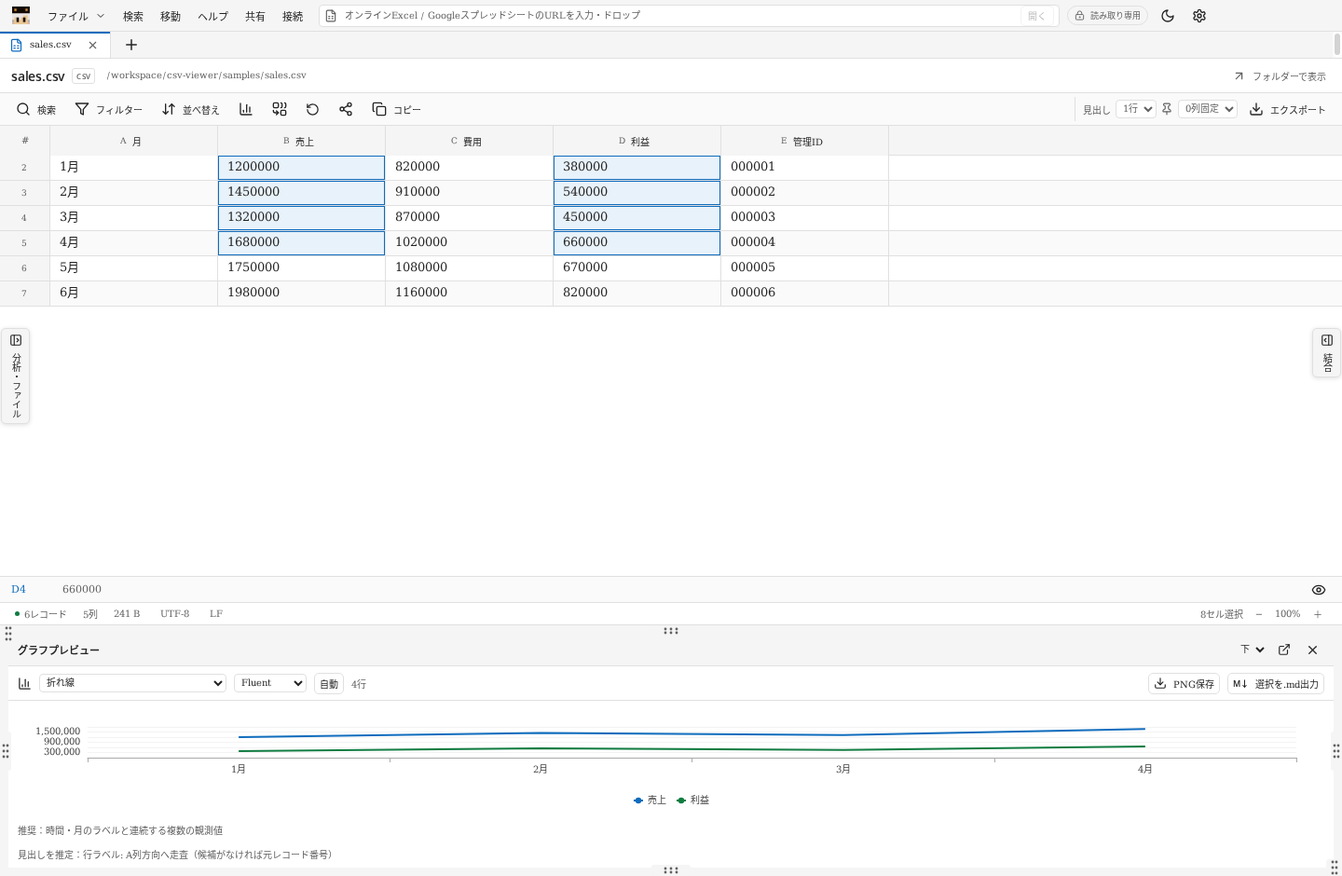
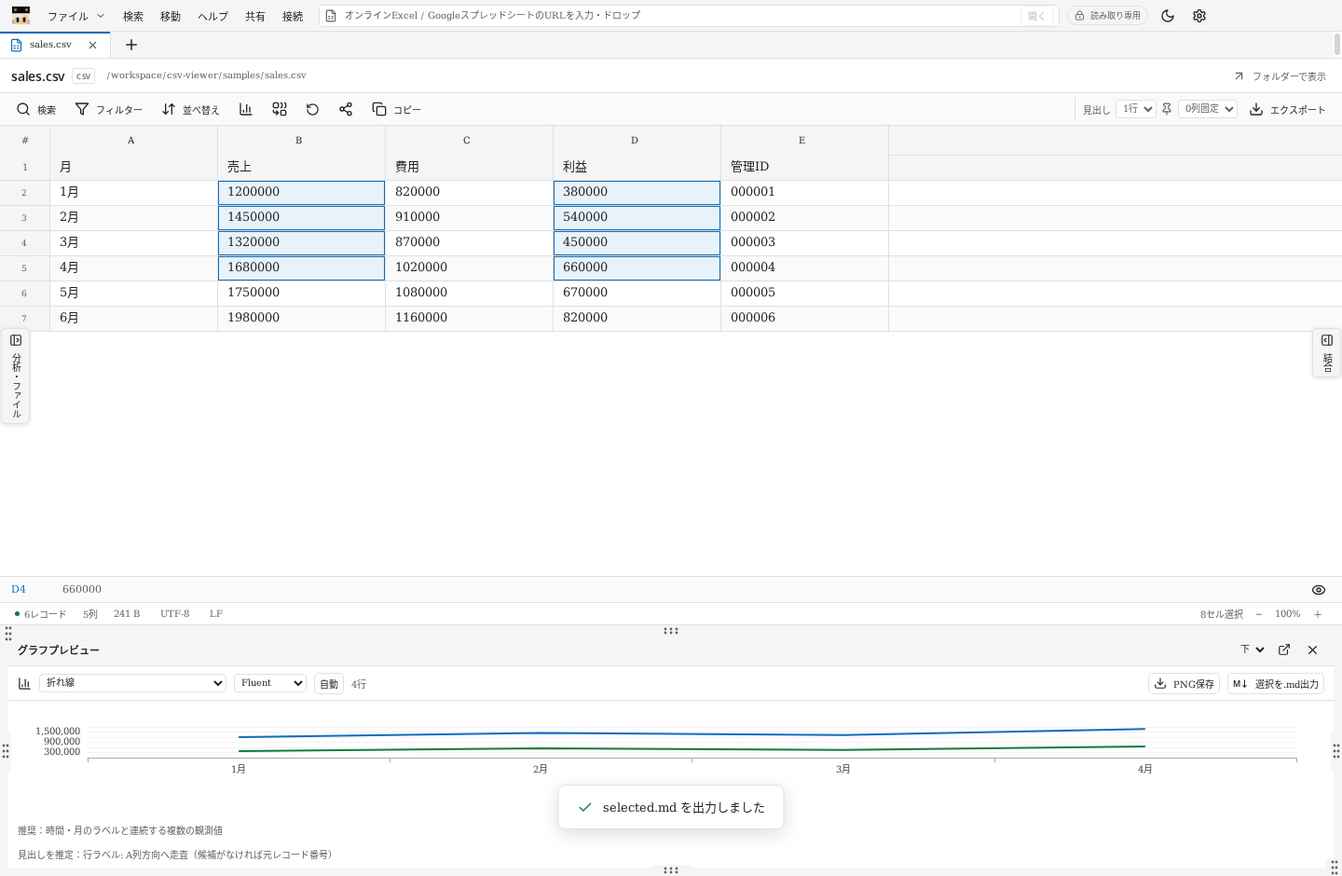
Separate alphabet column headers from raw file heading rows (v1.1.6)

diff --git a/src/main.tsx b/src/main.tsx
@@ -51,6 +51,7 @@ function App() {
   const [sidebar, setSidebar] = useState(false), [fileMenu, setFileMenu] = useState(false), [modal, setModal] = useState('');
   const [rows, setRows] = useState<Row[]>([]), [top, setTop] = useState(0), [left, setLeft] = useState(0), [height, setHeight] = useState(500), [gridWidth, setGridWidth] = useState(900);
   const [cellValue, setCellValue] = useState(''), [showFind, setShowFind] = useState(false), [query, setQuery] = useState(''), [caseSensitive, setCaseSensitive] = useState(false), [regex, setRegex] = useState(false), [whole, setWhole] = useState(false);
+  const [headerCellValue, setHeaderCellValue] = useState('');
   const [draftFilters, setDraftFilters] = useState<Filter[]>([]), [draftSorts, setDraftSorts] = useState<Sort[]>([]);
   const [encoding, setEncoding] = useState('auto'), [delimiter, setDelimiter] = useState('auto'), [customDelimiter, setCustomDelimiter] = useState(''), [kind, setKind] = useState('auto');
   const [exportFormat, setExportFormat] = useState('csv'), [exportScope, setExportScope] = useState('view'), [exportEncoding, setExportEncoding] = useState('utf8'), [exportBom, setExportBom] = useState(false), [markdownTable, setMarkdownTable] = useState(true);
@@ -59,7 +60,11 @@ function App() {
   const dragPoint=useRef({x:0,y:0});
   const gridRef = useRef<HTMLDivElement>(null), findRef = useRef<HTMLInputElement>(null), dragging = useRef(false), pageSequence = useRef(0), commands = useRef<(command: string) => void>(() => {});
   const selectedTab = tabs.find(t => t.meta.id === activeId), tabRef = useRef<Tab | undefined>(selectedTab); tabRef.current = selectedTab;
-  const meta = selectedTab?.meta, isCsv = meta?.kind === 'csv'||meta?.kind==='excel', rowHeight = Math.max(26, (prefs.fontSize || 13) + 14), headerHeight = isCsv ? 32 : 0;
+  const meta = selectedTab?.meta, isCsv = meta?.kind === 'csv'||meta?.kind==='excel', rowHeight = Math.max(26, (prefs.fontSize || 13) + 14);
+  // Keep raw heading records separate from the alphabet strip. A long heading
+  // section scrolls independently so it cannot consume the whole data viewport.
+  const headerRecordHeight = isCsv ? Math.min((meta?.headerRows || 0) * rowHeight, Math.max(rowHeight, Math.floor((height - 32) / 2 / rowHeight) * rowHeight)) : 0;
+  const headerHeight = isCsv ? 32 + headerRecordHeight : 0;
   const columns = useMemo(() => meta ? (selectedTab?.columnOrder?.length?selectedTab.columnOrder:Array.from({ length: meta.columns }, (_, c) => c)).filter(c=>!selectedTab?.deletedColumns?.includes(c)&&(!selectedTab?.columnFilter||selectedTab.columnFilter.includes(c))) : [], [meta?.columns, selectedTab?.deletedColumns,selectedTab?.columnOrder,selectedTab?.columnFilter]);
   const widthOf = (c: number) => selectedTab?.widths[c] || (isCsv ? 180 : 1400);
   const positions = useMemo(() => { let x = 54; return columns.map(c => { const p = { c, x, w: widthOf(c) }; x += p.w; return p; }); }, [columns, selectedTab?.widths, isCsv]);
@@ -305,11 +310,19 @@ function App() {
         {showFind && <div className="findbar"><Search size={16}/><input ref={findRef} aria-label="検索語" placeholder="文字列を検索…" value={query} onChange={e => setQuery(e.target.value)} onKeyDown={e => { if (e.key === 'Enter') find(e.shiftKey); if (e.key === 'Escape') setShowFind(false); }}/><label><input type="checkbox" checked={caseSensitive} onChange={e => setCaseSensitive(e.target.checked)}/>大文字・小文字</label><label><input type="checkbox" checked={whole} onChange={e => setWhole(e.target.checked)}/>セル全体</label><label><input type="checkbox" checked={regex} onChange={e => setRegex(e.target.checked)}/>正規表現</label><button aria-label="前を検索" onClick={() => find(true)}><ChevronLeft size={16}/></button><button aria-label="次を検索" onClick={() => find()}><ChevronRight size={16}/></button><button aria-label="検索を閉じる" onClick={() => setShowFind(false)}><X size={16}/></button></div>}
         {selectedTab!.filters.length > 0 && <div className="filter-summary"><FilterIcon size={12}/>{count(meta.count)}件を表示（全{count(meta.records - meta.headerRows)}件）<button onClick={() => configure({ filters: [] })}>フィルターを解除<X size={12}/></button></div>}
         {meta.warnings.length > 0 && <div className="warning"><Info size={14}/>{meta.warnings.join(' ')}</div>}
-        {selectedTab!.preview ? <div className="markdown-scroll"><article className="markdown-body" onPointerDown={e=>{dragging.current=true;selectMarkdown(e,e.shiftKey);}} onPointerOver={e=>{if(dragging.current)selectMarkdown(e,true);}} dangerouslySetInnerHTML={{ __html: mdHtml }}/></div> : <div className={'grid-scroll ' + (!isCsv ? 'text-view' : '')} ref={gridRef} tabIndex={0} role="grid" aria-label={isCsv ? 'CSVデータ' : 'テキストソース'} aria-rowcount={meta.count} aria-colcount={meta.columns} onKeyDown={gridKey} onScroll={e => { const el = e.currentTarget; setTop(el.scrollTop*scrollScale); setLeft(el.scrollLeft); patchTab({ scrollTop: el.scrollTop, scrollLeft: el.scrollLeft }); }}>
+        {selectedTab!.preview ? <div className="markdown-scroll"><article className="markdown-body" onPointerDown={e=>{dragging.current=true;selectMarkdown(e,e.shiftKey);}} onPointerOver={e=>{if(dragging.current)selectMarkdown(e,true);}} dangerouslySetInnerHTML={{ __html: mdHtml }}/></div> : <div className={'grid-scroll ' + (!isCsv ? 'text-view' : '')} ref={gridRef} tabIndex={0} role="grid" aria-label={isCsv ? 'CSVデータ' : 'テキストソース'} aria-rowcount={meta.count + (isCsv ? meta.headerRows + 1 : 0)} aria-colcount={meta.columns} onKeyDown={gridKey} onScroll={e => { const el = e.currentTarget; setTop(el.scrollTop*scrollScale); setLeft(el.scrollLeft); patchTab({ scrollTop: el.scrollTop, scrollLeft: el.scrollLeft }); }}>
           <div className="grid-canvas" style={{ width: Math.max(totalWidth, gridWidth), height: Math.max(height, Math.min(24000000,meta.count * rowHeight + headerHeight)) }}>
-            {isCsv && <div className="grid-headers" style={{ width: Math.max(totalWidth, gridWidth), transform: `translateY(${top/scrollScale}px)` }}><div className="corner" style={{ transform: `translateX(${left}px)` }}>#</div>{visibleColumns.map(p => <div className={'column-header ' + (frozenColumns.includes(p.c) ? 'frozen' : '')} key={p.c} style={{ left: frozenColumns.includes(p.c) ? left + positions.slice(0,positions.indexOf(p)).filter(v=>frozenColumns.includes(v.c)).reduce((sum,v) => sum+v.w,54) : p.x, width: p.w }} title={meta.headers[p.c]}><GridHead axis="column" index={p.c} label={meta.headers[p.c]} letter={letter(p.c)} hidden={selectedTab!.hidden.includes(p.c)} selected={headSelection?.axis==='column'&&headSelection.indices.includes(p.c)||false} onStart={e=>beginHead('column',p.c,e)} onEnter={()=>{if(headDrag.current?.axis==='column')extendHead(p.c);}} onMenu={e=>headContext('column',p.c,e)} onVisibility={()=>visibility('column',[p.c])} onSort={direction=>sortHead('column',p.c,direction)}/><div className="resize-handle" onPointerDown={e => resizeColumn(p.c, e)} onDoubleClick={() => autoFit(p.c)}/></div>)}</div>}
-            {rows.map(row => <div role="row" key={row.index} className={'grid-row ' + (row.index % 2 ? 'alternate' : '')} style={{ top: row.index * rowHeight - top + top/scrollScale + headerHeight, height: rowHeight, width: Math.max(totalWidth, gridWidth) }}><div className="row-number" style={{left}}><GridHead axis="row" index={row.index} label={String(row.source+1)} hidden={selectedTab!.hiddenRows?.includes(row.source)||false} selected={headSelection?.axis==='row'&&headSelection.indices.includes(row.index)||false} onStart={e=>beginHead('row',row.index,e)} onEnter={()=>{if(headDrag.current?.axis==='row')extendHead(row.index);}} onMenu={e=>headContext('row',row.index,e)} onVisibility={()=>visibility('row',[row.index])} onSort={direction=>sortHead('row',row.index,direction)}/></div>{visibleColumns.map(p => <div key={p.c} role="gridcell" aria-selected={!!isSelected(row.index,p.c)} className={'cell ' + (selectedTab!.hidden.includes(p.c)||selectedTab!.hiddenRows?.includes(row.source)?'cell-concealed ':'') + (isSelected(row.index,p.c) ? 'selected ' : '') + (frozenColumns.includes(p.c) ? 'frozen ' : '') + (row.cells[p.c] === undefined ? 'missing' : '')} data-row={row.index} data-col={p.c} style={{ left: frozenColumns.includes(p.c) ? left + positions.slice(0,positions.indexOf(p)).filter(v=>frozenColumns.includes(v.c)).reduce((sum,v) => sum+v.w,54) : p.x, width: p.w }} onPointerDown={e => { if (e.button !== 0) return; e.preventDefault(); gridRef.current?.focus(); dragging.current = true; dragPoint.current={x:e.clientX,y:e.clientY}; select(row.index,p.c,e.shiftKey,e.ctrlKey||e.metaKey); }} onPointerEnter={() => { if (dragging.current) select(row.index,p.c,true); }} onDoubleClick={() => showModal('cell')} title={selectedTab!.hidden.includes(p.c)||selectedTab!.hiddenRows?.includes(row.source)?'非表示（グレー表示）: '+(row.cells[p.c]??''):row.cells[p.c]}><span>{row.cells[p.c]?.replace(/\r?\n/g,' ↵ ') || ''}</span></div>)}</div>)}
-            {!meta.count && <div className="no-rows">{meta.records ? '表示条件に一致するデータはありません' : '空のファイルです'}</div>}
+            {isCsv && <div className="grid-headers" role="row" aria-rowindex={1} style={{ width: Math.max(totalWidth, gridWidth), transform: `translateY(${top/scrollScale}px)` }}><div className="corner" style={{ transform: `translateX(${left}px)` }}>#</div>{visibleColumns.map(p => <div className={'column-header ' + (frozenColumns.includes(p.c) ? 'frozen' : '')} key={p.c} style={{ left: frozenColumns.includes(p.c) ? left + positions.slice(0,positions.indexOf(p)).filter(v=>frozenColumns.includes(v.c)).reduce((sum,v) => sum+v.w,54) : p.x, width: p.w }} title={meta.headers[p.c]}><GridHead axis="column" index={p.c} label={meta.headers[p.c]} letter={letter(p.c)} hidden={selectedTab!.hidden.includes(p.c)} selected={headSelection?.axis==='column'&&headSelection.indices.includes(p.c)||false} onStart={e=>beginHead('column',p.c,e)} onEnter={()=>{if(headDrag.current?.axis==='column')extendHead(p.c);}} onMenu={e=>headContext('column',p.c,e)} onVisibility={()=>visibility('column',[p.c])} onSort={direction=>sortHead('column',p.c,direction)}/><div className="resize-handle" onPointerDown={e => resizeColumn(p.c, e)} onDoubleClick={() => autoFit(p.c)}/></div>)}</div>}
+            {isCsv && meta.headerRows > 0 && <div className="header-records" aria-label="ファイルの見出し行" style={{top:32 + top/scrollScale,left,width:gridWidth,height:headerRecordHeight}}>
+              <div className="header-record-canvas" style={{width:Math.max(totalWidth,gridWidth),height:meta.headerRows*rowHeight,transform:`translateX(${-left}px)`}}>
+                {meta.headerRecords.map((cells,r)=><div role="row" aria-rowindex={r+2} key={r} className="grid-row header-record" data-header-row={r} style={{top:r*rowHeight,height:rowHeight,width:Math.max(totalWidth,gridWidth)}}>
+                  <div className="row-number header-record-number" role="rowheader" style={{left}}>{r+1}</div>
+                  {visibleColumns.map(p=><div key={p.c} role="gridcell" className={'cell '+(selectedTab!.hidden.includes(p.c)?'cell-concealed ':'')+(frozenColumns.includes(p.c)?'frozen ':'')+(cells[p.c]===undefined?'missing':'')} data-header-col={p.c} style={{left:frozenColumns.includes(p.c)?left+positions.slice(0,positions.indexOf(p)).filter(v=>frozenColumns.includes(v.c)).reduce((sum,v)=>sum+v.w,54):p.x,width:p.w}} title={cells[p.c]??''} onDoubleClick={()=>{setHeaderCellValue(cells[p.c]??'');setModal('headerCell');}}><span>{cells[p.c]?.replace(/\r?\n/g,' ↵ ')||''}</span></div>)}
+                </div>)}
+              </div>
+            </div>}
+            {rows.map(row => <div role="row" aria-rowindex={row.index+(isCsv?meta.headerRows+2:1)} key={row.index} className={'grid-row ' + (row.index % 2 ? 'alternate' : '')} style={{ top: row.index * rowHeight - top + top/scrollScale + headerHeight, height: rowHeight, width: Math.max(totalWidth, gridWidth) }}><div className="row-number" style={{left}}><GridHead axis="row" index={row.index} label={String(row.source+1)} hidden={selectedTab!.hiddenRows?.includes(row.source)||false} selected={headSelection?.axis==='row'&&headSelection.indices.includes(row.index)||false} onStart={e=>beginHead('row',row.index,e)} onEnter={()=>{if(headDrag.current?.axis==='row')extendHead(row.index);}} onMenu={e=>headContext('row',row.index,e)} onVisibility={()=>visibility('row',[row.index])} onSort={direction=>sortHead('row',row.index,direction)}/></div>{visibleColumns.map(p => <div key={p.c} role="gridcell" aria-selected={!!isSelected(row.index,p.c)} className={'cell ' + (selectedTab!.hidden.includes(p.c)||selectedTab!.hiddenRows?.includes(row.source)?'cell-concealed ':'') + (isSelected(row.index,p.c) ? 'selected ' : '') + (frozenColumns.includes(p.c) ? 'frozen ' : '') + (row.cells[p.c] === undefined ? 'missing' : '')} data-row={row.index} data-col={p.c} style={{ left: frozenColumns.includes(p.c) ? left + positions.slice(0,positions.indexOf(p)).filter(v=>frozenColumns.includes(v.c)).reduce((sum,v) => sum+v.w,54) : p.x, width: p.w }} onPointerDown={e => { if (e.button !== 0) return; e.preventDefault(); gridRef.current?.focus(); dragging.current = true; dragPoint.current={x:e.clientX,y:e.clientY}; select(row.index,p.c,e.shiftKey,e.ctrlKey||e.metaKey); }} onPointerEnter={() => { if (dragging.current) select(row.index,p.c,true); }} onDoubleClick={() => showModal('cell')} title={selectedTab!.hidden.includes(p.c)||selectedTab!.hiddenRows?.includes(row.source)?'非表示（グレー表示）: '+(row.cells[p.c]??''):row.cells[p.c]}><span>{row.cells[p.c]?.replace(/\r?\n/g,' ↵ ') || ''}</span></div>)}</div>)}
+            {!meta.count && <div className="no-rows" style={{top:headerHeight+24}}>{meta.records ? '表示条件に一致するデータはありません' : '空のファイルです'}</div>}
           </div>
         </div>}
         <div className="inspector"><span className="cell-address">{selectedTab?.selection ? `${letter(selectedTab.selection.col1)}${selectedTab.selection.row1 + 1}` : '—'}</span><pre title="選択セルの内容（型変換なし）">{cellValue || ' '}</pre><button title="セルの全文を表示" aria-label="セルの全文を表示" className="icon-btn" onClick={() => showModal('cell')}><Eye size={16}/></button></div>
@@ -323,7 +336,7 @@ function App() {
     {error && <div className="error-banner" role="alert"><Info size={18}/><span>{error}</span><button className="icon-btn" aria-label="エラーを閉じる" onClick={() => setError('')}><X size={16}/></button></div>}
     {toast && <div className="toast"><Check size={17}/>{toast}</div>}
     {busy && <div className="busy-overlay"><div className="busy-card"><div className="spinner"/><strong>{busy}</strong><progress value={progress} max={1}/><p>{Math.round(progress*100)}%</p></div></div>}
-    {modal && <div className="modal-overlay" onClick={() => { if (!busy) setModal(''); }}><section className={'modal ' + (['filters','sorts','help'].includes(modal) ? 'wide' : '')} role="dialog" aria-modal="true" onClick={e => e.stopPropagation()}>{modal !== 'share' && <div className="modal-heading"><h2>{{ filters:'フィルター',sorts:'並べ替え',reading:'読み込み設定',export:'エクスポート',settings:'表示設定',goto:'行・列へ移動',help:'操作ガイド',cell:'セルの内容',about:'このアプリについて' }[modal]}</h2><button className="icon-btn" aria-label="ダイアログを閉じる" onClick={() => setModal('')}><X size={18}/></button></div>}
+    {modal && <div className="modal-overlay" onClick={() => { if (!busy) setModal(''); }}><section className={'modal ' + (['filters','sorts','help'].includes(modal) ? 'wide' : '')} role="dialog" aria-modal="true" onClick={e => e.stopPropagation()}>{modal !== 'share' && <div className="modal-heading"><h2>{{ filters:'フィルター',sorts:'並べ替え',reading:'読み込み設定',export:'エクスポート',settings:'表示設定',goto:'行・列へ移動',help:'操作ガイド',cell:'セルの内容',headerCell:'セルの内容',about:'このアプリについて' }[modal]}</h2><button className="icon-btn" aria-label="ダイアログを閉じる" onClick={() => setModal('')}><X size={18}/></button></div>}
       {modal === 'share' && <Sharing table={shareTable} document={sharingDocument} onClose={()=>setModal('')}/>}
       {modal === 'filters' && <><p className="modal-description">すべての条件に一致するレコードを表示します。元データは変更されません。</p><div className="rules">{draftFilters.map((f,i) => <div className="filter-rule" key={i}>{columnSelect(f.column,n => setDraftFilters(all => all.map((v,j) => j === i ? {...v,column:n}:v)),true)}<select value={f.mode} onChange={e => setDraftFilters(all => all.map((v,j) => j === i ? {...v,mode:e.target.value}:v))}>{MODES.map(([value,label]) => <option key={value} value={value}>{label}</option>)}</select><input aria-label={`条件${i+1}の値`} placeholder="比較する値" value={f.value} disabled={['empty','notEmpty'].includes(f.mode)} onChange={e => setDraftFilters(all => all.map((v,j) => j === i ? {...v,value:e.target.value}:v))}/><label title="大文字・小文字を区別"><input type="checkbox" checked={!!f.caseSensitive} onChange={e => setDraftFilters(all => all.map((v,j) => j === i ? {...v,caseSensitive:e.target.checked}:v))}/>Aa</label><button aria-label={`条件${i+1}を削除`} className="icon-btn" onClick={() => setDraftFilters(all => all.filter((_,j) => j !== i))}><X size={16}/></button></div>)}</div><button className="quiet-button" disabled={draftFilters.length >= 30} onClick={() => setDraftFilters(all => [...all,{column:-1,mode:'contains',value:''}])}><Plus size={15}/>条件を追加</button><div className="modal-actions"><button onClick={() => configure({filters:[]})}>解除</button><button className="primary" onClick={() => configure({filters:draftFilters})}>適用</button></div></>}
       {modal === 'sorts' && <><p className="modal-description">上の条件から順に並べ替えます。同じ値の順序は保持されます。</p><div className="rules">{draftSorts.map((s,i) => <div className="sort-rule" key={i}><span>{i+1}</span>{columnSelect(s.column,n => setDraftSorts(all => all.map((v,j) => j === i ? {...v,column:n}:v)))}<select value={s.direction} onChange={e => setDraftSorts(all => all.map((v,j) => j === i ? {...v,direction:e.target.value}:v))}><option value="asc">昇順 ↑</option><option value="desc">降順 ↓</option></select><select value={s.mode} onChange={e => setDraftSorts(all => all.map((v,j) => j === i ? {...v,mode:e.target.value}:v))}><option value="text">自然順（文字列）</option><option value="numeric">数値順（精度保持）</option></select><button className="icon-btn" onClick={() => setDraftSorts(all => all.filter((_,j) => j !== i))}><X size={16}/></button></div>)}</div><button className="quiet-button" disabled={draftSorts.length >= 8} onClick={() => setDraftSorts(all => [...all,{column:0,direction:'asc',mode:'text'}])}><Plus size={15}/>並べ替え列を追加</button><div className="modal-actions"><button onClick={() => configure({sorts:[]})}>元の順序に戻す</button><button className="primary" onClick={() => configure({sorts:draftSorts})}>適用</button></div></>}
@@ -331,7 +344,7 @@ function App() {
       {modal === 'export' && <><p className="modal-description">別のファイルに変換して出力します。保存先は次の画面で選択します。</p><label className="form-field">出力形式<select aria-label="出力形式" value={exportFormat} onChange={e => setExportFormat(e.target.value)}><option value="csv">CSV（カンマ区切り）</option><option value="tsv">TSV（タブ区切り）</option><option value="md">Markdown (.md)</option><option value="txt">テキスト (.txt)</option></select></label>{isCsv && <label className="form-field">出力範囲<select value={exportScope} onChange={e => setExportScope(e.target.value)}><option value="selection">選択範囲（見出しを含む）</option><option value="view">表示中のレコード（フィルター・並べ替えを適用）</option><option value="all">元ファイルの全レコード</option></select></label>}{meta?.kind === 'markdown' && ['csv','tsv'].includes(exportFormat) && <label className="form-field">表としての変換<select value={markdownTable?'table':'lines'} onChange={e => setMarkdownTable(e.target.value === 'table')}><option value="table">最初のMarkdown表を出力</option><option value="lines">ソースの各行を1セルとして出力</option></select></label>}<label className="form-field">出力文字コード<select value={exportEncoding} onChange={e => setExportEncoding(e.target.value)}><option value="utf8">UTF-8</option><option value="source">元ファイルと同じ文字コード</option></select></label><label className="check-field"><input type="checkbox" checked={exportBom} onChange={e => setExportBom(e.target.checked)}/>BOMを付ける</label><div className="export-note">{isCsv ? 'CSV・TSV・TXTは引用符付きの区切りテキスト、Markdownは表として出力します。非表示列も出力されます。Markdownの先頭レコードは見出しになります。' : ['md','txt'].includes(exportFormat) ? 'Markdown・TXTへの出力はソースの内容を保持します。' : meta?.kind === 'markdown' && markdownTable ? '最初の表だけを変換します。表以外の文章と後続の表は含まれません。' : '各ソース行を1列のデータとして出力します。'}<br/>変換時は改行・引用符・文字コードの表現が変わる場合があります。</div><div className="modal-actions"><button onClick={() => setModal('')}>キャンセル</button><button className="primary" onClick={exportFile}><Download size={15}/>保存先を選んで出力</button></div></>}
       {modal === 'settings' && <>{appIcon&&<img className="settings-app-icon" src={appIcon} alt="アプリアイコン"/>}<button className="quiet-button" onClick={()=>window.csv.chooseIcon().then(image=>{if(image)setAppIcon(image);}).catch(e=>setError(String(e)))}>アプリアイコンを選択（PNG / ICO）</button><button className="quiet-button" onClick={()=>{setShareTable(null);setSharingDocument(undefined);setModal('share');}}>アカウント・共有の接続設定を開く</button><p className="modal-description">Microsoft 365 / Fluentの配色を参考にしています。</p><label className="form-field">カラープロファイル<select value={prefs.theme} onChange={e => savePrefs({theme:e.target.value})}><option value="light">ライト</option><option value="dark">ダーク</option></select></label><label className="form-field">アクセントカラー<select value={prefs.accent} onChange={e => savePrefs({accent:e.target.value})}><option value="#0f6cbd">Office ブルー</option><option value="#107c41">Excel グリーン</option><option value="#5b5fc7">Teams パープル</option></select></label><label className="form-field">フォント<select value={prefs.fontFamily} onChange={e => savePrefs({fontFamily:e.target.value})}><option value="Segoe UI">Segoe UI</option><option value="Yu Gothic UI">游ゴシック UI</option><option value="Meiryo">メイリオ</option><option value="Consolas">Consolas</option></select></label><label className="form-field">文字サイズ<input type="number" min={10} max={24} value={prefs.fontSize} onChange={e => savePrefs({fontSize:Math.max(10,Math.min(24,Number(e.target.value)||13))})}/></label><div className="modal-actions"><button className="primary" onClick={() => setModal('')}>完了</button></div></>}
       {modal === 'goto' && <><p className="modal-description">現在表示されている順序の行と列へ移動します。</p><label className="form-field">行番号 (1〜{count(meta?.count||0)})<input autoFocus type="number" min={1} max={meta?.count} value={gotoRow} onChange={e => setGotoRow(e.target.value)}/></label><label className="form-field">列番号 (1〜{meta?.columns||0})<input type="number" min={1} max={meta?.columns} value={gotoCol} onChange={e => setGotoCol(e.target.value)}/></label><div className="modal-actions"><button className="primary" onClick={() => { revealCell((Number(gotoRow)||1)-1,(Number(gotoCol)||1)-1); setModal(''); }}>移動</button></div></>}
-      {modal === 'cell' && <><p className="modal-description">表示上の省略がない元のセル内容です。</p><textarea className="cell-full" readOnly value={cellValue}/><div className="modal-actions"><button onClick={() => window.csv.clipboard(cellValue).then(() => notify('セルをコピーしました'))}><Copy size={15}/>コピー</button><button className="primary" onClick={() => setModal('')}>閉じる</button></div></>}
+      {['cell','headerCell'].includes(modal) && <><p className="modal-description">表示上の省略がない元のセル内容です。</p><textarea className="cell-full" readOnly value={modal==='headerCell'?headerCellValue:cellValue}/><div className="modal-actions"><button onClick={() => window.csv.clipboard(modal==='headerCell'?headerCellValue:cellValue).then(() => notify('セルをコピーしました'))}><Copy size={15}/>コピー</button><button className="primary" onClick={() => setModal('')}>閉じる</button></div></>}
       {modal === 'about' && <About icon={appIcon} onError={setError}/> }
       {modal === 'help' && <div className="help-content"><p>CSV nyaan ViewerはCSV・Markdown・TXTを直接読み込むWindows用ビューワーです。元ファイルを保存・更新する操作はありません。</p><table><tbody>{[['Ctrl+O','ファイルを開く（複数選択可）'],['Ctrl+F / F3 / Shift+F3','検索 / 次を検索 / 前を検索'],['Ctrl+G','行・列へ移動'],['Ctrl+C / Ctrl+A','選択範囲をコピー / 全選択'],['Shift+クリック・矢印','選択範囲を広げる'],['Ctrl+矢印 / Ctrl+Shift+矢印','連続データの端へ移動 / 範囲拡張'],['Ctrl+Space / Shift+Space','列選択 / 行選択'],['Home / End / Ctrl+Home / Ctrl+End','行端 / 表の先頭・末尾へ移動'],['Ctrl+R / Ctrl+W','再読み込み / タブを閉じる'],['Ctrl+Shift+E','ファイル → エクスポート'],['Ctrl+Shift+L','ライト／ダーク切り替え']].map(([key,value]) => <tr key={key}><td><kbd>{key}</kbd></td><td>{value}</td></tr>)}</tbody></table><p>見出し中央で行・列を選択し、ドラッグで複数選択します。見出しの左側で表示を切り替え、右側で昇順・降順・元の順序を選べます。右クリックで操作メニューを開けます。境界をドラッグすると幅を変更できます。境界のダブルクリックで、画面上の内容に幅を合わせます。セルのダブルクリックで全文を表示します。</p><p>文字化けや区切りの誤判定は「ファイル → 読み込み設定」で指定し直せます。自動文字コード判定はBOM・UTF-8・UTF-16を優先し、その他はCP932を候補とします。</p><p>大容量CSVはレコードの位置だけを保持して必要な部分を読みます。Markdownプレビューは16 MiB以内です。大きい文書はソース表示で閲覧できます。</p><button className="quiet-button" onClick={()=>showModal('about')}>このアプリについて</button><p className="help-footnote">Modern CSVとは独立した実装です。現行無料版の公式機能表は、この環境の通信制限により照合できていません。</p></div>}
     </section></div>}

diff --git a/tests/revision.spec.ts b/tests/revision.spec.ts
@@ -7,10 +7,31 @@ test.afterAll(async()=>{await app.close();expect(errors).toEqual([]);});
 test.beforeEach(async()=>{for(const name of ['グラフプレビューを閉じる','ファイル結合を閉じる'])if(await page.getByLabel(name,{exact:true}).count())await page.getByLabel(name,{exact:true}).click();await page.getByLabel('表示状態を復元',{exact:true}).click();await expect(page.locator('.busy-overlay')).toHaveCount(0);});
 const cell=(r:number,c:number)=>page.locator(`[data-row="${r}"][data-col="${c}"]`);
 async function drag(from:ReturnType<Page['locator']>,to:ReturnType<Page['locator']>){const a=(await from.boundingBox())!,b=(await to.boundingBox())!;await page.mouse.move(a.x+a.width/2,a.y+a.height/2);await page.mouse.down();await page.mouse.move(b.x+b.width/2,b.y+b.height/2,{steps:8});await page.mouse.up();}
+test('列記号だけの最上段と元の見出し行を分離し、固定・スクロール・見出し行数を保つ',async()=>{
+  const headings=Array.from({length:30},(_,c)=>['A','対象：','店長\n署名',''][c]??'項目'+c);headings[26]='0001';
+  const quote=(v:string)=>/[",\n]/.test(v)?'"'+v.replaceAll('"','""')+'"':v;
+  const target=path.join(out,'headings.csv'),source=[headings,...Array.from({length:80},(_,r)=>Array.from({length:30},(_,c)=>String((r+1)*100+c)))].map(row=>row.map(quote).join(',')).join('\n')+'\n';fs.writeFileSync(target,source);
+  await app.evaluate(({BrowserWindow},p)=>BrowserWindow.getAllWindows()[0].webContents.send('csv:paths',[p]),target);
+  await expect(cell(0,1)).toHaveText('101');
+  const raw=(r:number,c:number)=>page.locator(`[data-header-row="${r}"] [data-header-col="${c}"]`);
+  await expect(page.getByLabel('列Aを選択',{exact:true})).toHaveText('A');await expect(page.getByLabel('列Bを選択',{exact:true})).toHaveText('B');
+  await expect(raw(0,0)).toHaveText('A');await expect(raw(0,1)).toHaveText('対象：');await expect(raw(0,2)).toHaveText('店長 ↵ 署名');await expect(raw(0,3)).toHaveText('');
+  await expect(page.locator('[data-header-row="0"] .row-number')).toHaveText('1');expect(await page.locator('.header-records').evaluate(el=>el.scrollHeight===el.clientHeight)).toBe(true);await expect(page.getByLabel('行2を選択',{exact:true})).toBeVisible();
+  const strip=(await page.locator('.grid-headers').boundingBox())!,heading=(await raw(0,1).boundingBox())!,data=(await cell(0,1).boundingBox())!;expect(heading.y).toBeCloseTo(strip.y+strip.height,0);const headerRow=(await page.locator('[data-header-row="0"]').boundingBox())!;expect(data.y).toBeCloseTo(headerRow.y+headerRow.height,0);
+  await raw(0,2).dblclick();await expect(page.locator('.cell-full')).toHaveValue('店長\n署名');await page.getByRole('dialog').getByRole('button',{name:'コピー',exact:true}).click();expect(await app.evaluate(({clipboard})=>clipboard.readText())).toBe('店長\n署名');await page.getByLabel('ダイアログを閉じる').click();
+  await page.locator('.column-head[data-head-index="1"] .header-sort-zone').hover();await page.getByLabel('列Bを降順',{exact:true}).click();await expect(cell(0,1)).toHaveText('8001');await expect(raw(0,1)).toHaveText('対象：');await expect(page.getByLabel('列Bを選択',{exact:true})).toHaveText('B');
+  await page.getByLabel('表示状態を復元',{exact:true}).click();await expect(cell(0,1)).toHaveText('101');
+  await page.getByLabel('固定列数').selectOption('1');const pinned=(await raw(0,0).boundingBox())!;
+  await page.locator('.grid-scroll').evaluate(el=>el.scrollTo({left:4400,top:800}));await expect(page.getByLabel('列AAを選択',{exact:true})).toHaveText('AA');await expect(raw(0,26)).toHaveText('0001');expect((await raw(0,0).boundingBox())!.x).toBeCloseTo(pinned.x,0);expect((await raw(0,26).boundingBox())!.y).toBeCloseTo(heading.y,0);
+  await page.locator('.grid-scroll').evaluate(el=>el.scrollTo({left:0,top:0}));await page.getByLabel('見出し行数').selectOption('2');await expect(raw(1,1)).toHaveText('101');await expect(cell(0,1)).toHaveText('201');await expect(page.getByLabel('列Bを選択',{exact:true})).toHaveText('B');
+  await page.getByLabel('見出し行数').selectOption('30');await expect(page.locator('[data-header-row]')).toHaveCount(30);const grid=(await page.locator('.grid-scroll').boundingBox())!,records=(await page.locator('.header-records').boundingBox())!;expect(records.height).toBeLessThan(grid.height/2);await page.locator('.header-records').evaluate(el=>el.scrollTop=el.scrollHeight);await expect(raw(29,1)).toBeVisible();await expect(cell(0,1)).toHaveText('3001');
+  await page.getByLabel('見出し行数').selectOption('0');await expect(page.locator('.header-records')).toHaveCount(0);await expect(cell(0,1)).toHaveText('対象：');await expect(page.getByLabel('行1を選択',{exact:true})).toBeVisible();await expect(page.getByLabel('列Bを選択',{exact:true})).toHaveText('B');
+  expect(fs.readFileSync(target,'utf8')).toBe(source);await page.getByLabel('headings.csvを閉じる').click();await expect(cell(0,1)).toHaveText('1200000');const capture=(await page.locator('.grid-scroll').boundingBox())!;await page.screenshot({path:'docs/images/separate-grid-headings.png',clip:{x:capture.x,y:capture.y,width:Math.min(960,capture.width),height:Math.min(220,capture.height)}});
+});
 test('セルのCtrl/Shift/矢印と行列ショートカット',async()=>{await cell(0,1).click();await page.locator('.grid-scroll').press('Shift+ArrowDown');await page.locator('.grid-scroll').press('Shift+ArrowRight');await expect(cell(1,2)).toHaveAttribute('aria-selected','true');await expect(cell(0,1)).toHaveAttribute('aria-selected','true');await page.locator('.grid-scroll').press('Control+ArrowDown');await expect(page.locator('.inspector .cell-address')).toHaveText('C6');await page.locator('.grid-scroll').press('Control+Home');await expect(page.locator('.cell-address')).toHaveText('A1');await page.locator('.grid-scroll').press('Control+Space');await expect(cell(5,0)).toHaveAttribute('aria-selected','true');await page.locator('.grid-scroll').press('Shift+Space');await expect(cell(0,4)).toHaveAttribute('aria-selected','true');await cell(3,3).click({modifiers:['Control']});await expect(cell(0,0)).toHaveAttribute('aria-selected','true');await expect(cell(3,3)).toHaveAttribute('aria-selected','true');});
 test('列のホバー選択、左右のアイコン、ドラッグ複数列のメニュー、表示削除と復元',async()=>{const b=page.getByLabel('列Bを選択',{exact:true}),d=page.getByLabel('列Dを選択',{exact:true});await b.hover();await expect(b).toHaveCSS('background-color','rgb(232, 242, 251)');await b.click();await expect(cell(5,1)).toHaveAttribute('aria-selected','true');await page.locator('.column-head[data-head-index="1"] .header-eye-zone').hover();await page.getByLabel('列Bを非表示',{exact:true}).click();await expect(cell(0,1)).toHaveClass(/cell-concealed/);await expect(cell(0,1).locator('span')).toBeVisible();await expect(cell(0,1).locator('span')).toHaveText('1200000');await page.getByLabel('列Bを表示',{exact:true}).click();await expect(cell(0,1)).not.toHaveClass(/cell-concealed/);await page.locator('.column-head[data-head-index="1"] .header-sort-zone').hover();await page.getByLabel('列Bを降順',{exact:true}).click();await expect(cell(0,1)).toHaveText('1980000');await page.locator('.column-head[data-head-index="1"] .header-sort-zone').hover();await page.getByLabel('列Bを元の順序へ',{exact:true}).click();await expect(cell(0,1)).toHaveText('1200000');await drag(b,d);const menu=page.getByRole('menu',{name:'行列の操作'});await expect(menu).toBeVisible();await expect(menu.getByRole('menuitem')).toHaveCount(2);await expect(cell(4,2)).toHaveAttribute('aria-selected','true');await menu.getByRole('menuitem',{name:'削除',exact:true}).click();await expect(cell(0,1)).toHaveCount(0);await page.getByLabel('表示状態を復元').click();await expect(cell(0,1)).toHaveText('1200000');await b.click({button:'right'});await expect(menu.getByRole('menuitem')).toHaveCount(3);await page.locator('.head-menu-shield').click({position:{x:900,y:700}});});
 test('行も複数ドラッグ・グレーアウト・削除・横方向ソート',async()=>{const r0=page.locator('.row-head[data-head-index="0"] .header-center'),r2=page.locator('.row-head[data-head-index="2"] .header-center');await drag(r0,r2);const menu=page.getByRole('menu',{name:'行列の操作'});await expect(menu.getByRole('menuitem')).toHaveCount(2);await menu.getByRole('menuitem',{name:'表示 / 非表示'}).click();await expect(cell(0,4)).toHaveClass(/cell-concealed/);await expect(cell(2,0)).toHaveClass(/cell-concealed/);await expect(cell(0,4).locator('span')).toBeVisible();await expect(cell(2,0).locator('span')).toBeVisible();await expect(cell(0,4).locator('span')).toHaveText('000001');await expect(cell(2,0).locator('span')).toHaveText('3月');await page.getByLabel('表示状態を復元').click();await r0.click({button:'right'});await expect(menu.getByRole('menuitem')).toHaveCount(3);await menu.getByRole('menuitem',{name:'ソート / フィルター'}).click();await menu.getByRole('button',{name:'昇順',exact:true}).click();await expect(page.locator('.column-head').first()).not.toHaveAttribute('data-head-index','0');await page.getByLabel('表示状態を復元').click();await drag(r0,r2);await menu.getByRole('menuitem',{name:'削除',exact:true}).click();await expect(page.locator('.statusbar')).toContainText('3レコード');await page.getByLabel('表示状態を復元').click();await expect(page.locator('.statusbar')).toContainText('6レコード');});
 test('閉じたエリアの再表示と、境界全体のドラッグ、6箇所のつまみ',async()=>{await page.getByLabel('下段プレビューを開く').click();const bottom=page.locator('.dock-slot.bottom');await expect(bottom.locator('.dock-grip')).toHaveCount(6);const initial=(await bottom.boundingBox())!;const boundary=bottom.getByRole('separator',{name:'下ペインとデータの境界'}),b=(await boundary.boundingBox())!;await page.mouse.move(b.x+80,b.y+3);await page.mouse.down();await page.mouse.move(b.x+80,b.y-47,{steps:8});await page.mouse.up();await expect.poll(async()=>(await bottom.boundingBox())!.height).toBeCloseTo(initial.height+50,0);await page.getByLabel('右側ファイル結合を開く').click();const right=page.locator('.dock-slot.right'),r=(await right.boundingBox())!,edge=(await right.getByRole('separator',{name:'右ペインとデータの境界'}).boundingBox())!;await page.mouse.move(edge.x+3,edge.y+75);await page.mouse.down();await page.mouse.move(edge.x-37,edge.y+75,{steps:8});await page.mouse.up();await expect.poll(async()=>(await right.boundingBox())!.width).toBeCloseTo(r.width+40,0);await page.getByLabel('左サイドを開く').click();const sidebar=page.locator('.sidebar'),s=(await sidebar.boundingBox())!,se=(await page.getByRole('separator',{name:'左サイドとデータの境界'}).boundingBox())!;await page.mouse.move(se.x+3,se.y+75);await page.mouse.down();await page.mouse.move(se.x+43,se.y+75,{steps:8});await page.mouse.up();await expect.poll(async()=>(await sidebar.boundingBox())!.width).toBeCloseTo(s.width+40,0);await page.getByLabel('左ペインを開閉').click();});
 test('グラフの全種を描画、パレット変更、自動推薦とPNG保存',async()=>{await cell(0,1).click();await cell(5,3).click({modifiers:['Shift']});await expect(page.locator('.dock-slot.bottom canvas')).toBeVisible();await page.getByLabel('グラフ種類').selectOption('column');const first=await page.locator('.chart-area canvas').evaluate((el:HTMLCanvasElement)=>el.toDataURL());await page.getByLabel('グラフのカラーセット').selectOption('pastel');await expect.poll(()=>page.locator('.chart-area canvas').evaluate((el:HTMLCanvasElement)=>el.toDataURL())).not.toBe(first);const options=await page.getByLabel('グラフ種類').locator('option').evaluateAll(nodes=>nodes.map(n=>(n as HTMLOptionElement).value));expect(options.length).toBeGreaterThanOrEqual(75);for(const kind of options){await page.getByLabel('グラフ種類').selectOption(kind);await expect(page.locator('.chart-area canvas')).toBeVisible();}await page.locator('.pane-toolbar').getByRole('button',{name:'自動',exact:true}).click();await expect(page.getByLabel('グラフ種類')).toHaveValue('line');await app.evaluate(({dialog},target)=>{dialog.showSaveDialog=async()=>({canceled:false,filePath:target});},path.join(out,'all-charts.png'));await page.getByRole('button',{name:'PNG保存',exact:true}).click();await expect.poll(()=>fs.existsSync(path.join(out,'all-charts.png'))).toBe(true);await page.screenshot({path:'docs/images/expanded-charts.png'});});
 test('変量・多変量分析の結果と3D主成分の回転',async()=>{await cell(0,1).click();await cell(5,3).click({modifiers:['Shift']});if(!await page.locator('.sidebar').count())await page.getByLabel('左ペインを開閉').click();await page.getByLabel('左サイドのモード').selectOption('selection');await expect(page.locator('.analysis-variable')).toHaveCount(3);await expect(page.locator('.analysis-pairs')).toContainText('売上');await page.getByLabel('左サイドのモード').selectOption('multivariate');await expect(page.locator('.analysis-pca')).toBeVisible();await page.getByLabel('分析の次元').selectOption('3');await expect(page.getByRole('img',{name:'3次元主成分分布'})).toBeVisible();await page.getByLabel('3D分析の回転').fill('90');await expect(page.locator('.analysis-pca')).toContainText('寄与率');await page.screenshot({path:'docs/images/multivariate-analysis.png'});await page.getByLabel('左ペインを開閉').click();});
-test('Excelのシート切り替えとURLドロップ・入力のIPCを確認',async()=>{const XLSX=require('@e965/xlsx'),p=path.join(out,'Book.xlsx'),wb=XLSX.utils.book_new();XLSX.utils.book_append_sheet(wb,XLSX.utils.aoa_to_sheet([['ID','Value'],['0001',12]]),'First');XLSX.utils.book_append_sheet(wb,XLSX.utils.aoa_to_sheet([['X','Y'],[2,4],[3,6]]),'Second');XLSX.writeFile(wb,p);await app.evaluate(({BrowserWindow},p)=>{BrowserWindow.getAllWindows()[0].webContents.send('csv:paths',[p]);},p);await expect(page.getByLabel('ワークシート')).toHaveValue('First');await expect(cell(0,0)).toHaveText('0001');await page.getByLabel('ワークシート').selectOption('Second');await expect(cell(0,0)).toHaveText('2');await expect(cell(1,1)).toHaveText('6');await app.evaluate(({ipcMain},p)=>{ipcMain.removeHandler('csv:openUrl');ipcMain.handle('csv:openUrl',async(_,url)=>{const meta=await (ipcMain as any)._invokeHandlers.get('csv:open')({}, {path:p,options:{}});return {...meta,name:'Online.xlsx',sourceUrl:url};});},p);const url='https://docs.google.com/spreadsheets/d/fake/edit';await page.getByLabel('オンラインExcel・スプレッドシートURL').fill(url);await page.locator('.online-bar').getByRole('button',{name:'開く',exact:true}).click();await expect(page.locator('.document-heading h1')).toContainText('Online.xlsx');await expect(page.locator('.document-heading p')).toHaveText(url);await page.locator('.app').evaluate(el=>{const d=new DataTransfer();d.setData('text/uri-list','https://1drv.ms/x/s/fake');el.dispatchEvent(new DragEvent('drop',{bubbles:true,dataTransfer:d}));});await expect(page.locator('.document-heading p')).toHaveText('https://1drv.ms/x/s/fake');});
+test('Excelのシート切り替えとURLドロップ・入力のIPCを確認',async()=>{const XLSX=require('@e965/xlsx'),p=path.join(out,'Book.xlsx'),wb=XLSX.utils.book_new();XLSX.utils.book_append_sheet(wb,XLSX.utils.aoa_to_sheet([['ID','Value'],['0001',12]]),'First');XLSX.utils.book_append_sheet(wb,XLSX.utils.aoa_to_sheet([['X','Y'],[2,4],[3,6]]),'Second');XLSX.writeFile(wb,p);await app.evaluate(({BrowserWindow},p)=>{BrowserWindow.getAllWindows()[0].webContents.send('csv:paths',[p]);},p);await expect(page.getByLabel('ワークシート')).toHaveValue('First');await expect(cell(0,0)).toHaveText('0001');await expect(page.locator('[data-header-row="0"] [data-header-col="0"]')).toHaveText('ID');await expect(page.getByLabel('列Aを選択',{exact:true})).toHaveText('A');await page.getByLabel('ワークシート').selectOption('Second');await expect(cell(0,0)).toHaveText('2');await expect(cell(1,1)).toHaveText('6');await expect(page.locator('[data-header-row="0"] [data-header-col="0"]')).toHaveText('X');await expect(page.getByLabel('列Aを選択',{exact:true})).toHaveText('A');await app.evaluate(({ipcMain},p)=>{ipcMain.removeHandler('csv:openUrl');ipcMain.handle('csv:openUrl',async(_,url)=>{const meta=await (ipcMain as any)._invokeHandlers.get('csv:open')({}, {path:p,options:{}});return {...meta,name:'Online.xlsx',sourceUrl:url};});},p);const url='https://docs.google.com/spreadsheets/d/fake/edit';await page.getByLabel('オンラインExcel・スプレッドシートURL').fill(url);await page.locator('.online-bar').getByRole('button',{name:'開く',exact:true}).click();await expect(page.locator('.document-heading h1')).toContainText('Online.xlsx');await expect(page.locator('.document-heading p')).toHaveText(url);await page.locator('.app').evaluate(el=>{const d=new DataTransfer();d.setData('text/uri-list','https://1drv.ms/x/s/fake');el.dispatchEvent(new DragEvent('drop',{bubbles:true,dataTransfer:d}));});await expect(page.locator('.document-heading p')).toHaveText('https://1drv.ms/x/s/fake');});

diff --git a/src/style.css b/src/style.css
@@ -21,3 +21,13 @@
 .app-icon{width:19px;height:19px;object-fit:contain}.settings-app-icon{width:48px;height:48px;object-fit:contain;display:block;margin-bottom:8px}
 .compact-titlebar .online-bar{flex:1 1 0;min-width:100px;height:24px;min-height:24px;padding:0 5px;gap:4px;border:1px solid var(--line);border-radius:4px;background:var(--bg);-webkit-app-region:no-drag}.compact-titlebar .online-bar>svg{flex-shrink:0}.compact-titlebar .online-bar input{width:0;height:22px;padding:2px 4px;font-size:10px}.compact-titlebar .online-bar button{padding:1px 7px;font-size:10px;flex-shrink:0}.compact-titlebar .titlebar-right{margin-left:0;flex-shrink:0}
 .about-content{font-size:12px;line-height:1.8}.about-identity{display:flex;align-items:center;gap:14px;margin:8px 0 18px}.about-identity img{width:48px;height:48px;object-fit:contain}.about-identity strong,.about-identity span{display:block}.about-identity strong{font-size:19px}.about-identity span{color:var(--muted);font-size:11px}.about-content dl{margin:18px 0}.about-content dt{font-size:11px;color:var(--muted)}.about-content dd{margin:0;font-weight:600}.about-links{display:grid;gap:8px}.about-links a{display:flex;align-items:center;gap:9px;padding:8px 10px;border:1px solid var(--line);border-radius:5px;color:var(--accent-text);text-decoration:none}.about-links a:hover{background:var(--hover)}.about-links a:focus-visible{outline:2px solid var(--accent-text);outline-offset:2px}.about-links small{display:block;font-size:11px;color:var(--muted);overflow-wrap:anywhere}
+
+/* The alphabet strip and raw file headings are independent grid rows. */
+.header-records{position:absolute;z-index:7;overflow-y:auto;overflow-x:hidden;background:var(--surface2)}
+.header-record-canvas{position:relative}
+.header-record{background:var(--surface2)}
+.header-record-number{display:grid;place-items:center;justify-content:stretch}
+
+.grid-row{z-index:0}
+
+.no-rows{position:absolute;left:0;width:100%;padding:24px 20px}

diff --git a/src/grid-head.tsx b/src/grid-head.tsx
@@ -4,7 +4,7 @@ export function GridHead({axis,index,label,letter,hidden,selected,onStart,onEnte
   const name=(axis==='column'?'列':'行')+(letter||label);
   return <div className={`grid-head ${axis}-head${selected?' head-selected':''}${hidden?' head-hidden':''}`} role={axis==='column'?'columnheader':'rowheader'} aria-selected={selected} data-head-index={index} onContextMenu={onMenu}>
     <div className="header-eye-zone"><button className="header-action visibility-action" aria-label={`${name}を${hidden?'表示':'非表示'}`} title={hidden?'表示する':'非表示にする'} onClick={onVisibility}>{hidden?<EyeOff size={13}/>:<Eye size={13}/>}</button></div>
-    <button className="header-center" aria-label={`${name}を選択`} onPointerDown={onStart} onPointerEnter={onEnter}>{letter&&<span className="header-letter">{letter}</span>}<span>{label}</span></button>
+    <button className="header-center" aria-label={`${name}を選択`} onPointerDown={onStart} onPointerEnter={onEnter}><span>{letter || label}</span></button>
     <div className="header-sort-zone"><div className="header-sort-actions"><button className="header-action" aria-label={`${name}を昇順`} title="昇順" onClick={()=>onSort('asc')}><ArrowUp size={12}/></button><button className="header-action" aria-label={`${name}を降順`} title="降順" onClick={()=>onSort('desc')}><ArrowDown size={12}/></button><button className="header-action" aria-label={`${name}を元の順序へ`} title="元の順序に戻す" onClick={()=>onSort(null)}><RotateCcw size={12}/></button></div></div>
   </div>;
 }

diff --git a/src/types.ts b/src/types.ts
@@ -1,5 +1,5 @@
 export type Kind = 'csv' | 'text' | 'markdown' | 'excel';
-export interface Meta { sheets?:string[];sheet?:string;sourceUrl?:string;name?:string;id: string; kind: Kind; path: string; size: number; encoding: string; delimiter: string; bom: number; records: number; columns: number; headerRows: number; headers: string[]; count: number; lineEndings: string; warnings: string[] }
+export interface Meta { sheets?:string[];sheet?:string;sourceUrl?:string;name?:string;id: string; kind: Kind; path: string; size: number; encoding: string; delimiter: string; bom: number; records: number; columns: number; headerRows: number; headerRecords: string[][]; headers: string[]; count: number; lineEndings: string; warnings: string[] }
 export interface Row { index: number; source: number; cells: string[] }
 export interface Filter { column: number; mode: string; value: string; caseSensitive?: boolean }
 export interface Sort { column: number; direction: string; mode: string }

diff --git a/docs/release-notes.md b/docs/release-notes.md
@@ -1,14 +1,14 @@
-Windows 10 / 11（x64）向け CSV nyaan Viewer 1.1.5です。
+Windows 10 / 11（x64）向け CSV nyaan Viewer 1.1.6です。
 
-「Assets」の `CSV-nyaan-Viewer-1.1.5-Windows-x64.zip` をすべて展開して `CSV nyaan Viewer.exe` を起動してください。Node.jsは不要です。
+「Assets」の `CSV-nyaan-Viewer-1.1.6-Windows-x64.zip` をすべて展開して `CSV nyaan Viewer.exe` を起動してください。Node.jsは不要です。
 
-- 非表示の行・列はグレーアウトしながら値を表示するように変更しました。背景と文字の色差を小さくし、ライト／ダーク両方で控えめに値を確認できます。
-- セルにマウスを重ねると、グレー表示でも値の全文を確認できます。
-- 行・列の交差部分も表示し、表示へ戻すと通常の配色に復元します。全3アクセントと両テーマのUIテストで確認します。
-- 初回起動でファイルを開く通知が画面の準備より早く届いても、通知を保持して確実に読み込むようにしました。
+- CSV・Excelの最上段を `#` と `A・B・C…・AA…` の列記号だけにしました。ファイルの1行目はその下に行番号 `1` を付けて独立して表示します。
+- 複数行の見出しは、元の空欄・改行・先頭ゼロを保持して行ごとに表示します。ダブルクリックで全文確認・コピーができます。
+- 見出し行数0では先頭レコードから通常のセルとして表示します。見出し行が多い場合は見出し部分を独立してスクロールでき、データ領域を確保します。
+- 列選択、ソート、固定列、縦横スクロール、シート切り替えと両テーマでの表示を確認するテストを追加しました。見出し名はグラフ・フィルター・エクスポートでも引き続き使用します。
 - 検証用の自己署名コード署名を継続。公開証明書 `test-signing.cer` と署名検証結果 `SIGNATURE.json` を配布します。
 
-前版のURL欄配置・オブザーバー表示・指定アイコン、Excel・オンライン読み取り、グラフ・分析、範囲選択、ペイン調整機能を含みます。コア／API契約／Excel／分析／描画／署名設定テスト63件とElectron UIテスト18件を実行するWindows自動ビルドです。ソースZIP・SHA-256チェックサム・署名検証結果を添付しています。[テーマ配色の確認](https://github.com/BLIMP-B/csv-nyaan-viewer/blob/main/docs/theme-audit.md) に確認対象と検証方法を記載しています。
+前版のグレー表示・テーマ配色、URL欄配置・オブザーバー表示・指定アイコン、Excel・オンライン読み取り、グラフ・分析、範囲選択、ペイン調整機能を含みます。コア／API契約／Excel／分析／描画／署名設定テスト64件とElectron UIテスト19件を実行するWindows自動ビルドです。ソースZIP・SHA-256チェックサム・署名検証結果を添付しています。[テーマ配色の確認](https://github.com/BLIMP-B/csv-nyaan-viewer/blob/main/docs/theme-audit.md) に確認対象と検証方法を記載しています。
 
 自己署名は認証局による本人・組織確認を受けた証明書ではありません。他のWindows環境で署名を信頼する場合は、公開証明書の拇印を確認して検証用アカウントへ手動登録してください。手順は [Windowsコード署名](https://github.com/BLIMP-B/csv-nyaan-viewer/blob/main/docs/code-signing.md) を参照してください。
 
